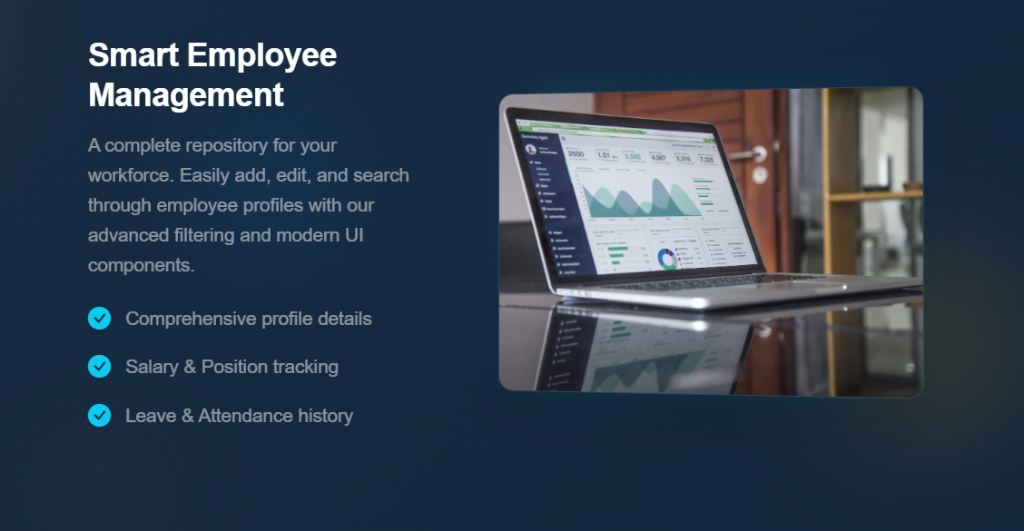
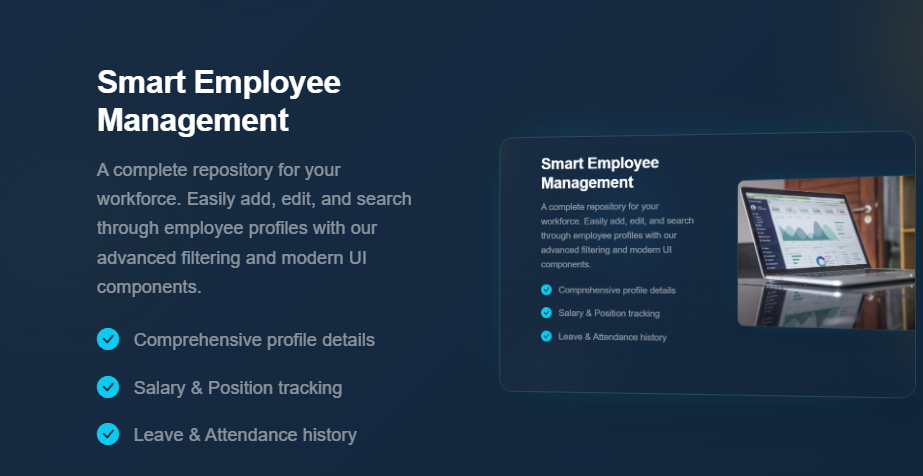
implement dashboard component with PDF reporting and add supporting screenshots

diff --git a/FrontEnd/HRMS-GradProject/src/app/features/dashboard/dashboard.component.ts b/FrontEnd/HRMS-GradProject/src/app/features/dashboard/dashboard.component.ts
@@ -571,7 +571,7 @@ export class DashboardComponent implements OnInit {
       error: (err) => console.error('Error fetching employees:', err),
     });
 
-    this.leaveService.getAllLeaves(1, 1000).subscribe({
+    this.leaveService.getAllLeaves(undefined, undefined, 1, 1000).subscribe({
       next: (res: any) => {
         const leaves = res?.items || [];
         this.pendingLeaves = leaves.filter(
@@ -625,7 +625,7 @@ export class DashboardComponent implements OnInit {
       error: (err) => console.error('Error fetching departments:', err),
     });
 
-    this.salaryService.getAllSalaries(1, 1000).subscribe({
+    this.salaryService.getAllSalaries(undefined, undefined, 1, 1000).subscribe({
       next: (res: any) => {
         const salaries = res?.items || [];
         this.totalSalaries = salaries.reduce(
@@ -666,7 +666,7 @@ export class DashboardComponent implements OnInit {
   }
 
   loadNextPayday() {
-    this.salaryService.getMySalaries(1, 1000).subscribe({
+    this.salaryService.getMySalaries(undefined, undefined, 1, 1000).subscribe({
       next: (res: any) => {
         const salaries = res?.items || [];
         if (!salaries || salaries.length === 0) return;
@@ -732,7 +732,7 @@ export class DashboardComponent implements OnInit {
 
     this.loadNextPayday();
 
-    this.leaveService.getMyLeaves(1, 1000).subscribe({
+    this.leaveService.getMyLeaves(undefined, undefined, 1, 1000).subscribe({
       next: (res: any) => {
         const leaves = res?.items || [];
         this.employeePendingLeaves = leaves.filter(